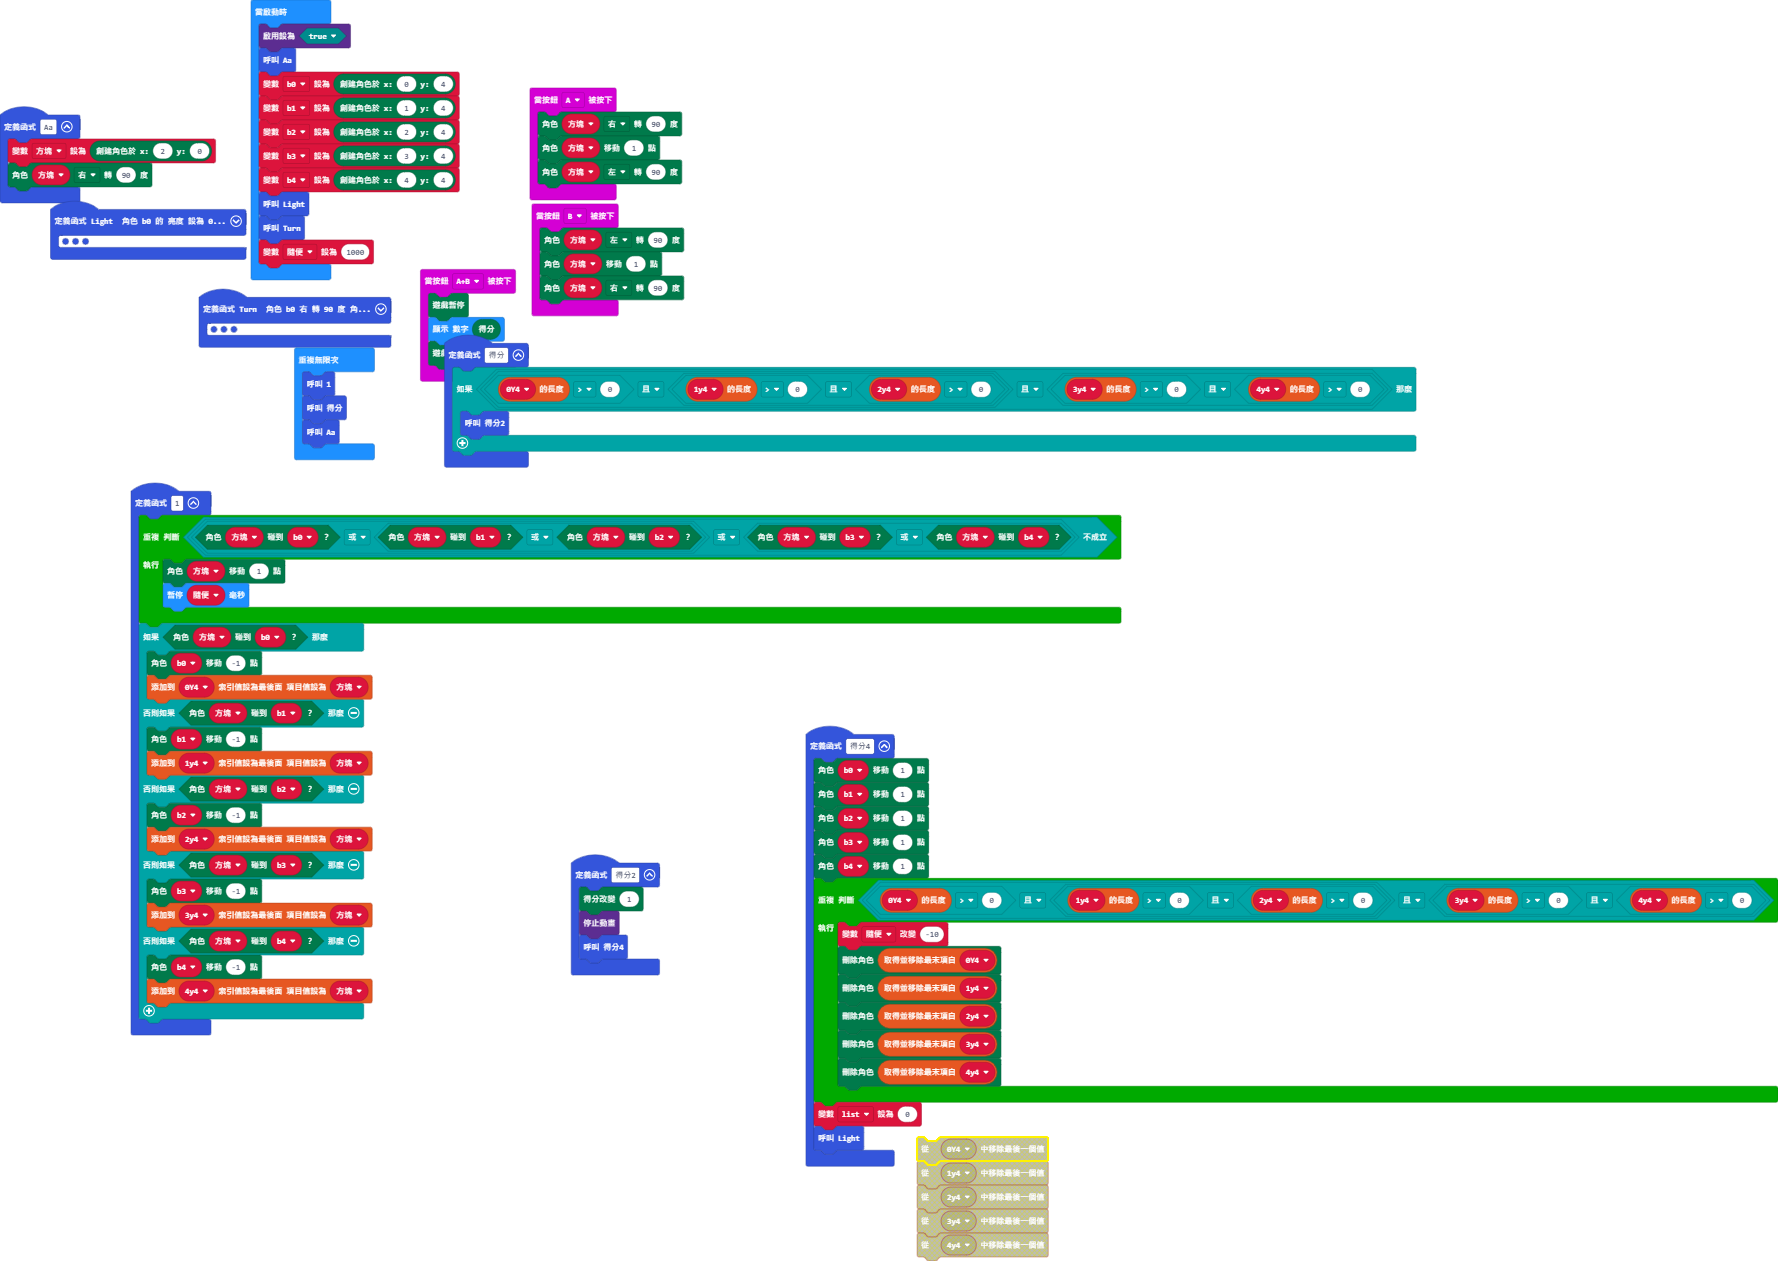
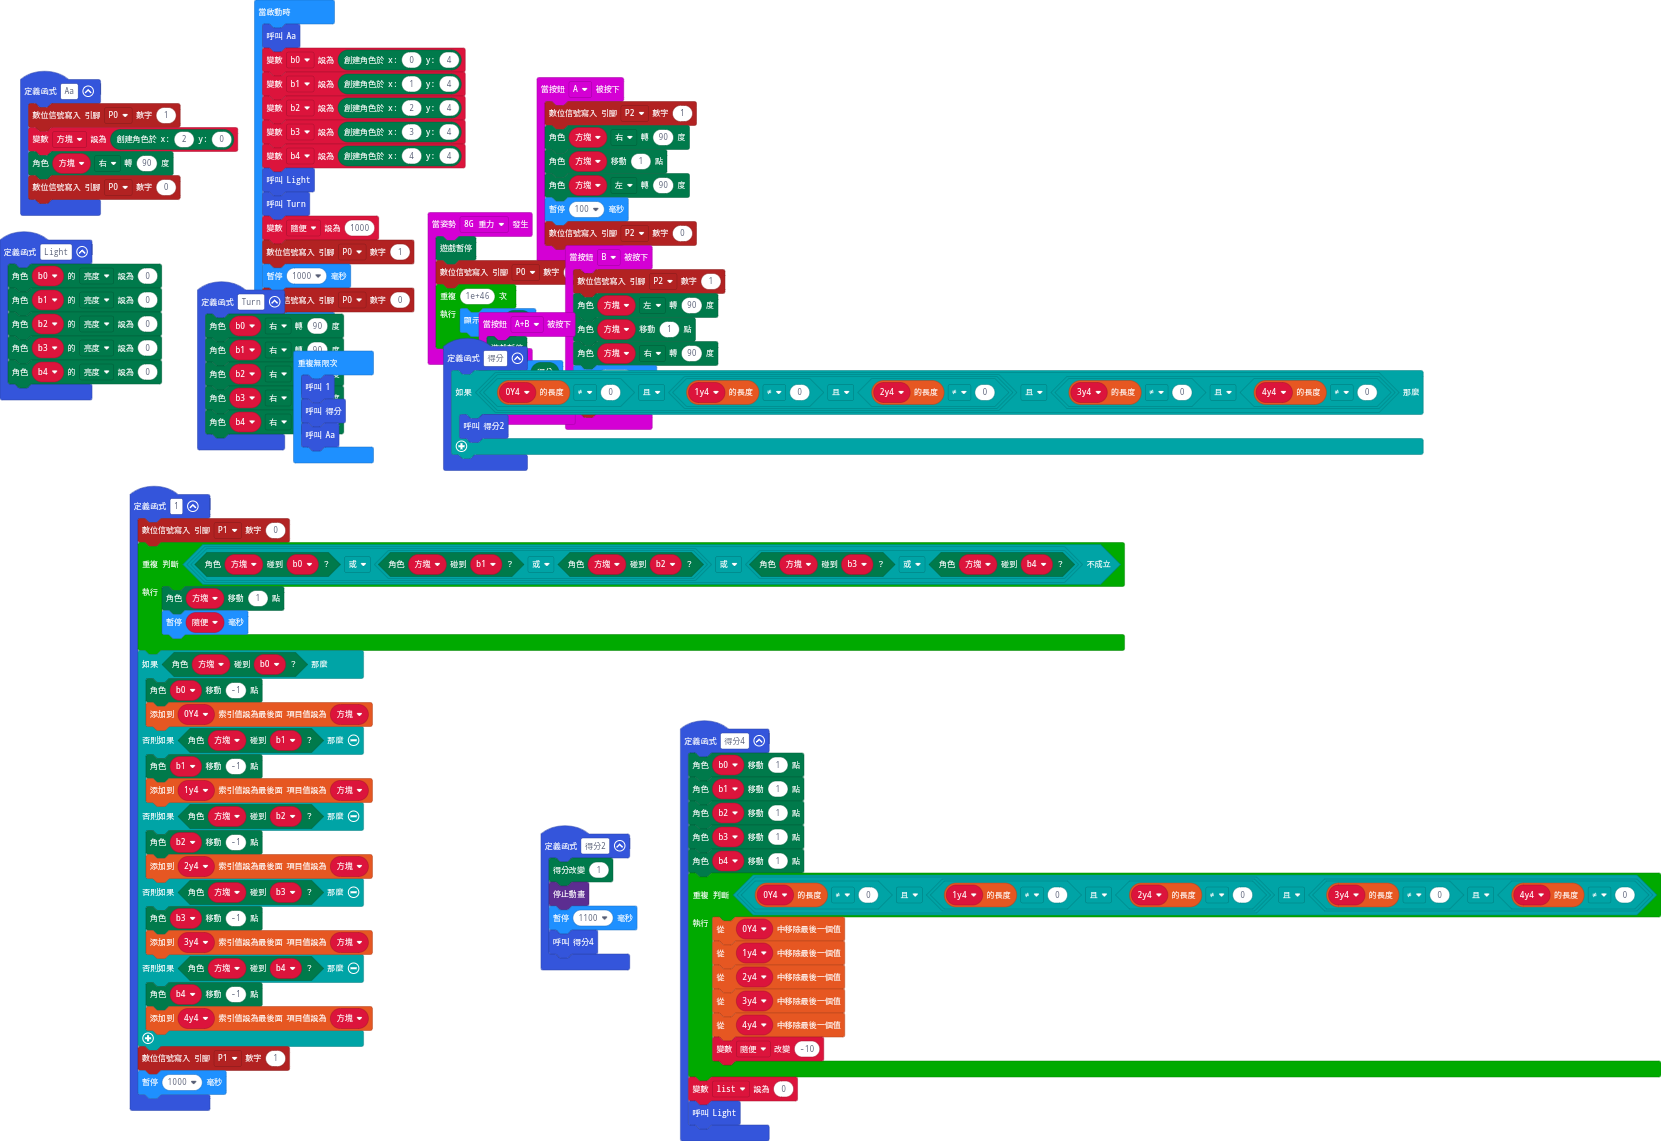
更新 pxt.json, main.blocks, main.ts

diff --git a/main.ts b/main.ts
@@ -1,6 +1,8 @@
 function Aa () {
+    pins.digitalWritePin(DigitalPin.P0, 1)
     方塊 = game.createSprite(2, 0)
     方塊.turn(Direction.Right, 90)
+    pins.digitalWritePin(DigitalPin.P0, 0)
 }
 function 得分2 () {
     game.addScore(1)
@@ -8,9 +10,12 @@ function 得分2 () {
     得分4()
 }
 input.onButtonPressed(Button.A, function () {
+    pins.digitalWritePin(DigitalPin.P2, 1)
     方塊.turn(Direction.Right, 90)
     方塊.move(1)
     方塊.turn(Direction.Left, 90)
+    basic.pause(100)
+    pins.digitalWritePin(DigitalPin.P2, 0)
 })
 function Turn () {
     b0.turn(Direction.Right, 90)
@@ -37,9 +42,12 @@ input.onButtonPressed(Button.AB, function () {
     game.resume()
 })
 input.onButtonPressed(Button.B, function () {
+    pins.digitalWritePin(DigitalPin.P2, 1)
     方塊.turn(Direction.Left, 90)
     方塊.move(1)
     方塊.turn(Direction.Right, 90)
+    basic.pause(100)
+    pins.digitalWritePin(DigitalPin.P2, 0)
 })
 function 得分4 () {
     b0.move(1)
@@ -58,7 +66,15 @@ function 得分4 () {
     list = 0
     Light()
 }
+input.onGesture(Gesture.EightG, function () {
+    game.pause()
+    pins.digitalWritePin(DigitalPin.P0, 1)
+    for (let index = 0; index < 1e+46; index++) {
+        basic.showNumber(game.score())
+    }
+})
 function _1 () {
+    pins.digitalWritePin(DigitalPin.P1, 0)
     while (!(方塊.isTouching(b0) || (方塊.isTouching(b1) || 方塊.isTouching(b2)) || (方塊.isTouching(b3) || 方塊.isTouching(b4)))) {
         方塊.move(1)
         basic.pause(隨便)
@@ -79,6 +95,8 @@ function _1 () {
         b4.move(-1)
         _4y4.push(方塊)
     }
+    pins.digitalWritePin(DigitalPin.P1, 1)
+    basic.pause(1000)
 }
 let list = 0
 let _4y4: game.LedSprite[] = []
@@ -93,7 +111,6 @@ let b3: game.LedSprite = null
 let b2: game.LedSprite = null
 let b1: game.LedSprite = null
 let b0: game.LedSprite = null
-led.enable(true)
 Aa()
 b0 = game.createSprite(0, 4)
 b1 = game.createSprite(1, 4)
@@ -103,6 +120,9 @@ b4 = game.createSprite(4, 4)
 Light()
 Turn()
 隨便 = 1000
+pins.digitalWritePin(DigitalPin.P0, 1)
+basic.pause(1000)
+pins.digitalWritePin(DigitalPin.P0, 0)
 basic.forever(function () {
     _1()
     得分()
